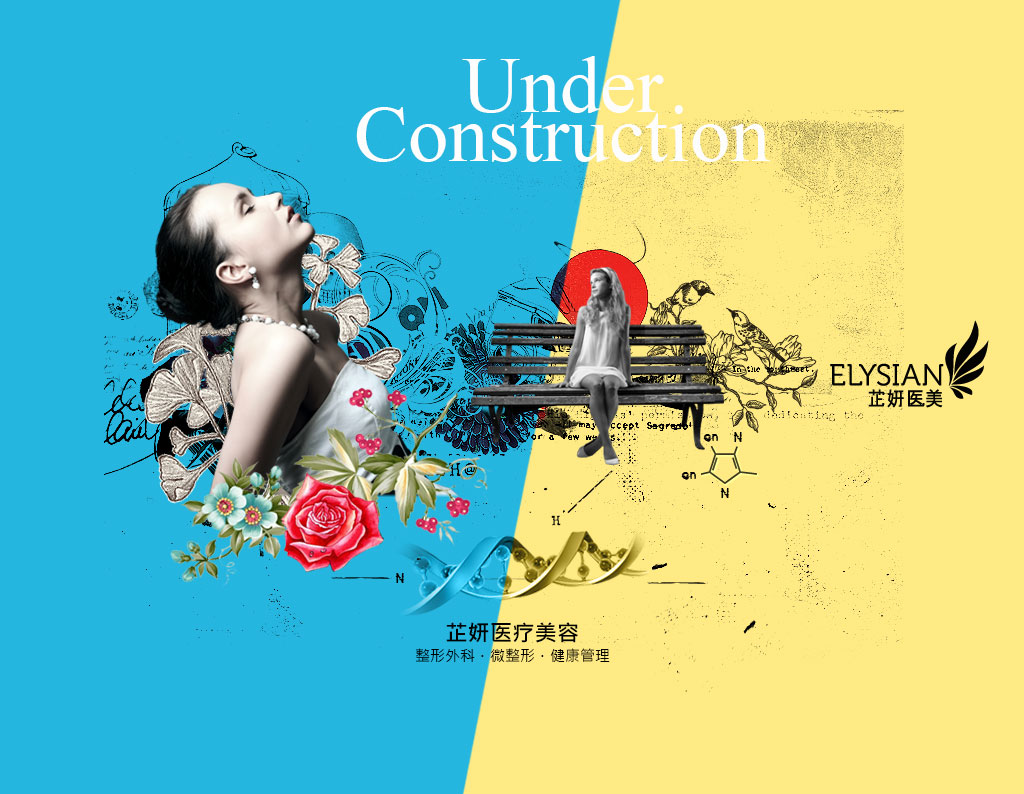
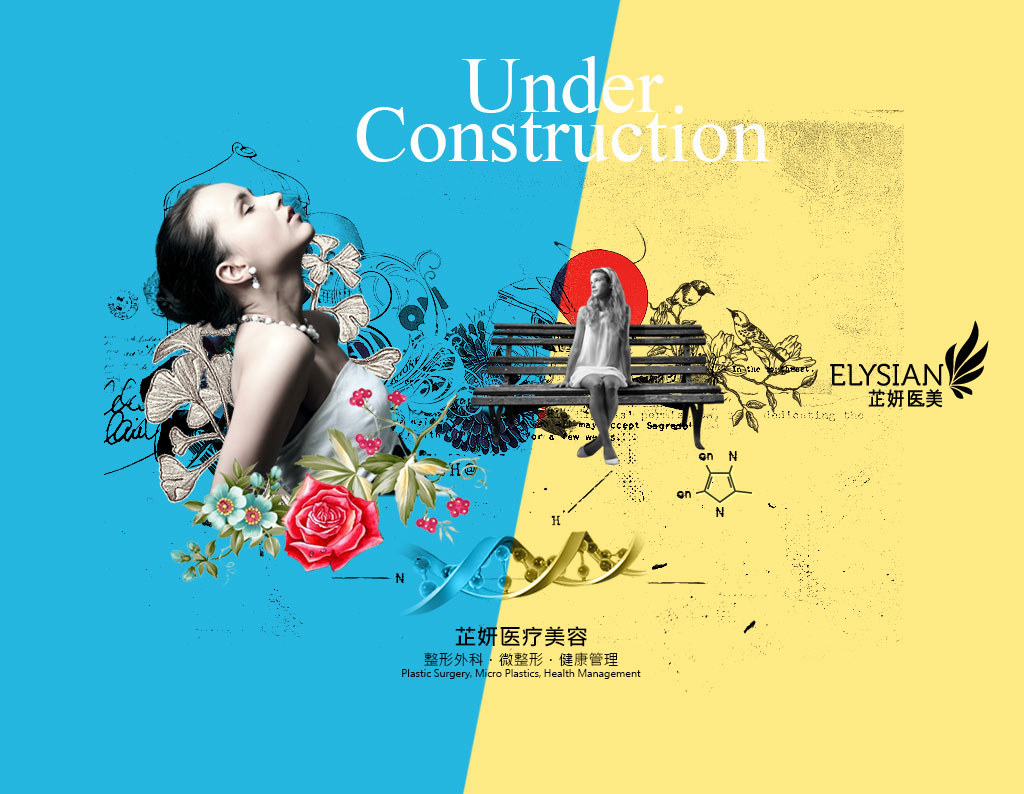
update

Changed region(s): [[0.4062, 0.7859, 0.625, 0.8766], [0.6562, 0.5441, 0.75, 0.6348]]

diff --git a/public/css/construct.css b/public/css/construct.css
@@ -1,10 +1,10 @@
 
 html{background:#0B0300}
-body{display:table;width:1024px;height:100%;margin:0 auto;font:300 13px "Trebuchet MS",Verdana,Arial,Helvetica,宋体,sans-serif}
-a{font:300 13px "Trebuchet MS",Verdana,Arial,Helvetica,宋体,sans-serif;text-decoration:none}
+body{display:table;width:1024px;height:100%;margin:0 auto;font:300 11px "Trebuchet MS",Verdana,Arial,Helvetica,宋体,sans-serif;-webkit-text-size-adjust: none;}
+a{font:300 11px "Trebuchet MS",Verdana,Arial,Helvetica,宋体,sans-serif;text-decoration:none;-webkit-text-size-adjust: none;}
 a:hover{text-decoration:underline}
 
 #vert{display:table-cell; vertical-align:middle;height:100%;}
-#info{width:100%;height:764px;background:url(../images/construct-bg.jpg) 0 0 no-repeat}
-#info p{color:#3a2c04;text-align:center;position:relative;top:670px}
+#info{width:100%;height:794px;background:url(../images/construct-bg.jpg) 0 0 no-repeat;text-align:center;position:relative}
+#info p{color:#3a2c04;position:absolute;width:100%;bottom:15px;line-height:1.7em}
 #info a{color:#3a2c04}

diff --git a/public/index.html b/public/index.html
@@ -10,14 +10,14 @@
 </head>
 
 <body _height="auto">
-  <div id="vert">
-    <div id="info">
-    <p>
-    地址：上海市静安区南京西路818号19楼200031<br>
-电话：+86-21-58860000<br>
-e-mail : <a href="mailto:info@zhiyan.cn" target="_blank">info@zhiyan.cn</a>
-    </p>
-    </div>
+<div id="vert">
+  <div id="info">
+    <p> 地址：上海市静安区南京西路818号19楼<br>
+      19F, 818, West Nanjing Road, Shanghai<br>
+      电话：+86-21-58860000<br>
+      For English: +86 180 1732 6686<br>
+      e-mail : <a href="mailto:info@zhiyan.cn" target="_blank">info@zhiyan.cn</a> </p>
   </div>
+</div>
 </body>
 </html>
